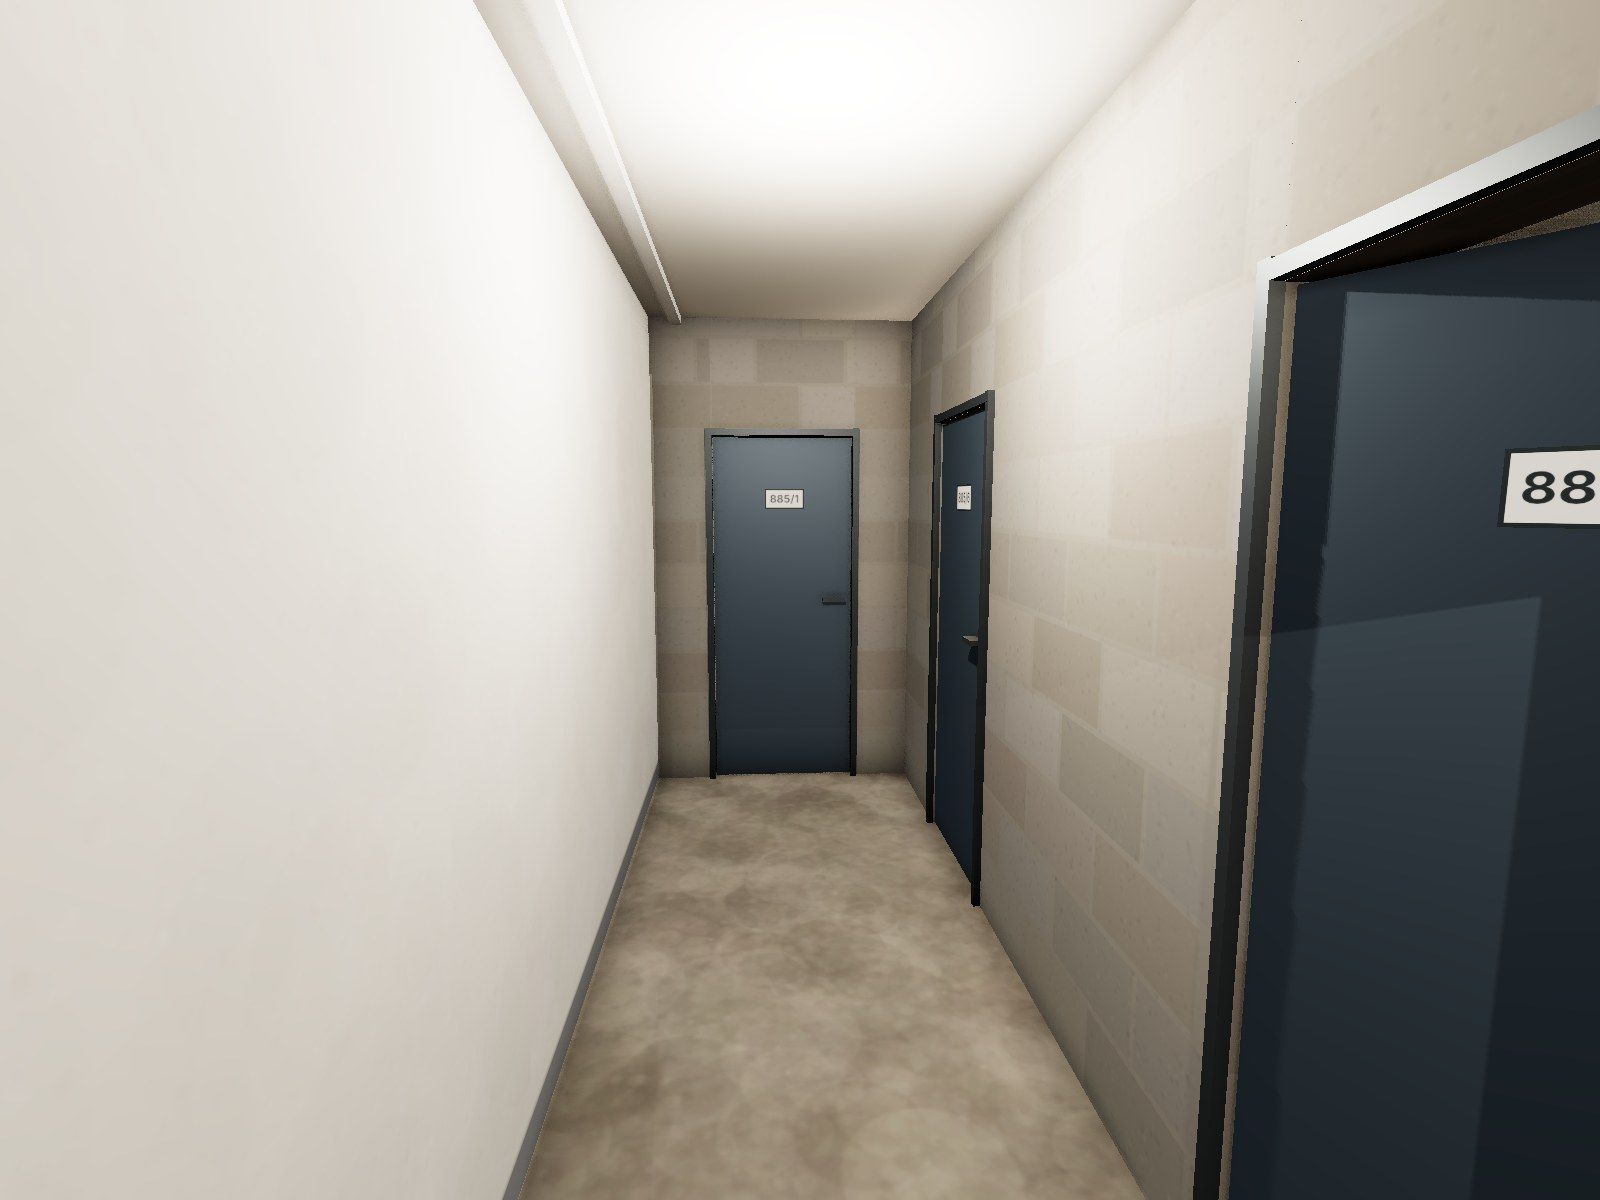
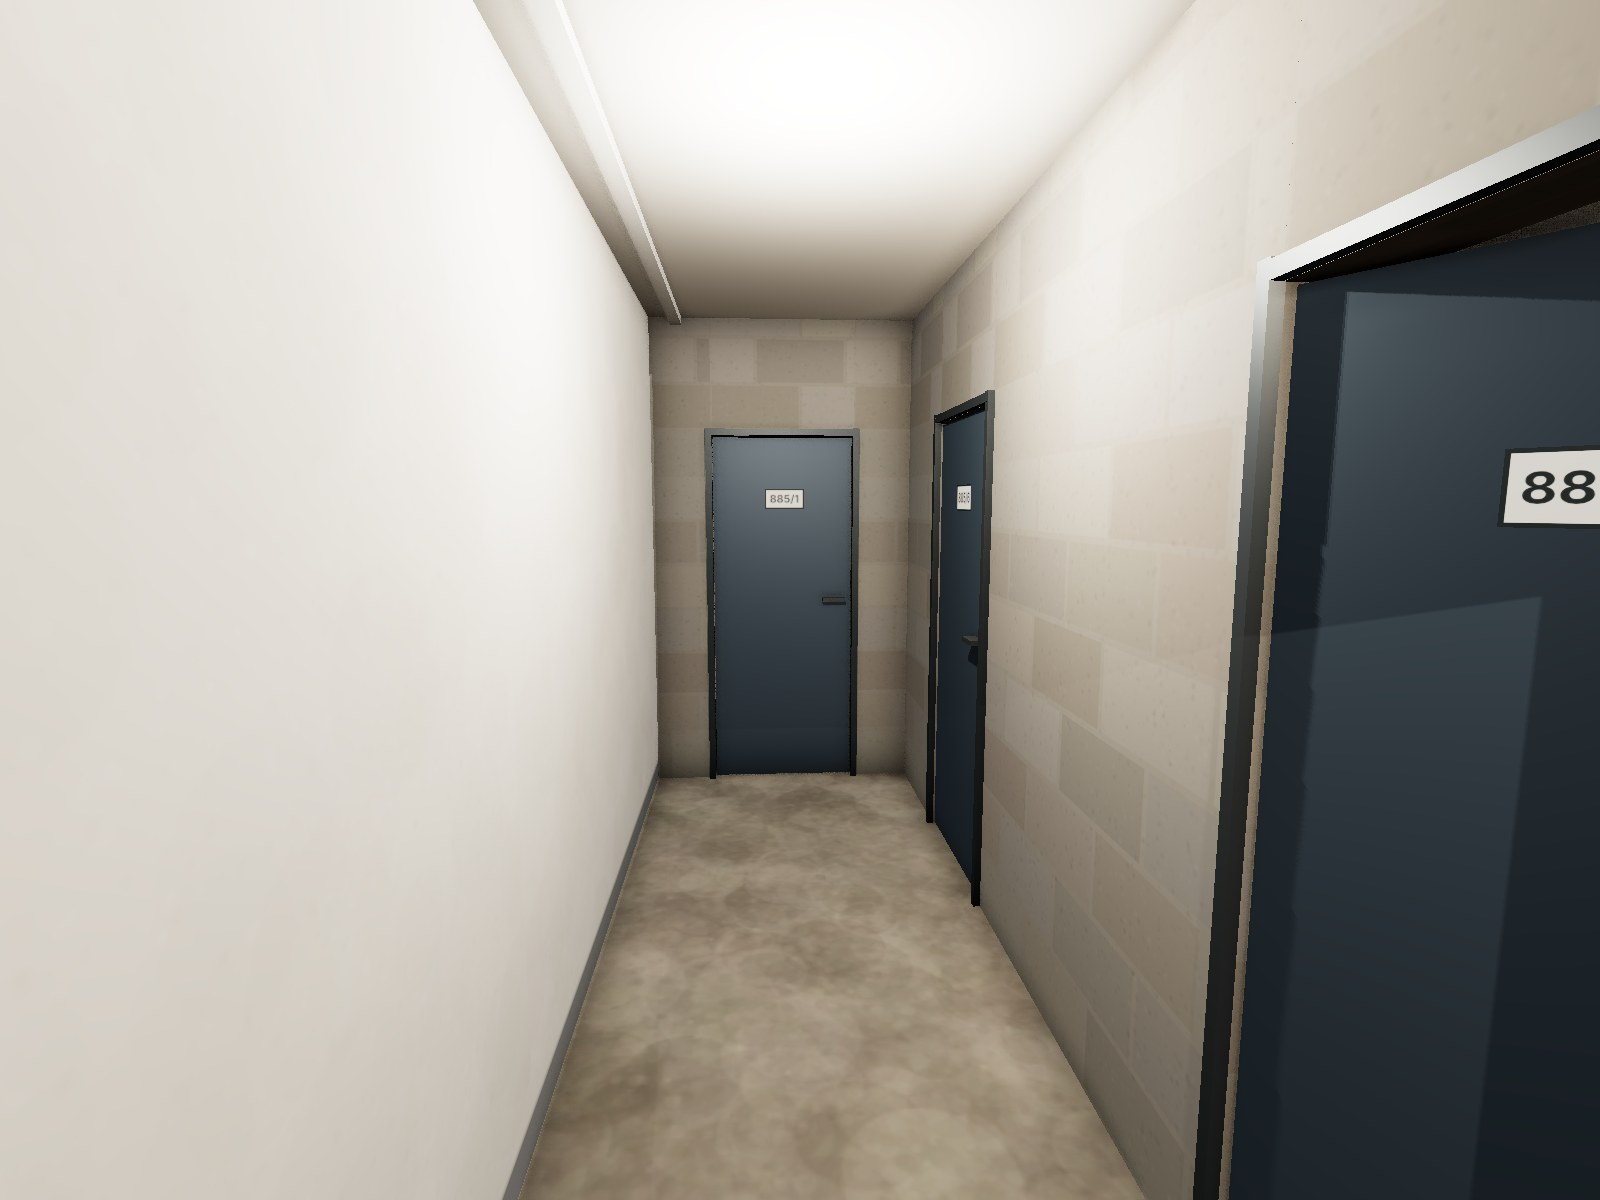
3D A1+A2: electrical per Elektroinstalace 2 (sockets in kóje, lights at plan positions, cable trays, PIR)
Claude-Session: https://claude.ai/code/session_01PwTnPep7yYfhi5YvdxRW3v

diff --git a/vizualizace3d-a1a2.html b/vizualizace3d-a1a2.html
@@ -33,6 +33,7 @@
         <h1>Místnosti A1 a A2 – cílový stav</h1>
         <p><b>A1:</b> 885/1 (1,20 × 3,45 m), 885/6 a 885/8 (2,25 × 1,85 m) – všechny kolem 4,15 m². <b>A2:</b> 885/9 (2,20 × 1,85 m), 885/2 (1,15 × 3,65 m).</p>
         <p>Dřevěná příčka před A2 vybourána, přístup z chodby C1 otevřený v celé šířce 885/9 (2,20 m); do A1 průchodem 1,00 m bez dveří. Příčky z tvárnic 15 cm až ke stropu, dveře 0,80 m.</p>
+        <p>Elektro podle Elektroinstalace 2: v každé kóji zásuvka 230 V (B16, vlastní elektroměr) a svítidlo LED, společné osvětlení přístupů a chodby s čidlem pohybu, kabelové lišty pod stropem z RS v A3.</p>
         <p class="note">Vizualizace podle Návrhu cílového stavu 2 a přesného zaměření: A1 6,00 × 3,449 m, A2 3,50 × 3,80 m, chodba C1 1,55 m, světlá výška 2,60 m, okna 1,13 × 0,50 m s parapetem ve 2,00 m. Myší lze pohled otáčet a přibližovat.</p>
         <div class="buttons">
             <button data-view="entry" class="active">Pohled od vstupu</button>
@@ -289,6 +290,7 @@
         const shelfMat = std({ color: '#9aa5ab', metalness: 0.6, roughness: 0.45 });
         const boxCols = ['#b48a5a', '#a07a4c', '#c49a68', '#5d7f99', '#7a8b5c'];
         // kóje: [x0, z0, x1, z1, strana regálu ('n' = u severní stěny, 'w' = u západní)]
+        const KLIGHT = { '885/1': [0.60, 0.40], '885/6': [3.22, 1.25], '885/8': [5.55, 1.25], '885/9': [8.10, 1.25], '885/2': [9.22, 0.60] };
         const KOJE = { '885/1': [0, 0, 1.20, D1, 'w'], '885/6': [1.35, 0, 3.60, 1.85, 'n'], '885/8': [3.75, 0, A1W, 1.85, 'n'],
             '885/9': [OX, 0, OX + 2.20, 1.85, 'n'], '885/2': [OX + 2.35, 0, OX + A2W, 3.65, 'w'] };
         Object.entries(KOJE).forEach(([name, [x0, z0, x1, z1, side]], i) => {
@@ -308,7 +310,7 @@
                         cx + (side === 'n' ? along : 0), y + bh / 2, cz + (side === 'n' ? 0 : along));
                 }
             });
-            const lx = (x0 + x1) / 2, lz = (z0 + z1) / 2;
+            const [lx, lz] = KLIGHT[name];   // svítidlo podle Elektroinstalace 2
             add(new THREE.CylinderGeometry(0.14, 0.14, 0.05, 28), std({ color: '#ffffff', emissive: '#fff4e0', emissiveIntensity: 2.2 }), lx, H - 0.03, lz, { cast: false, cut: true });
             const pl = new THREE.PointLight('#ffe9cc', name === '885/8' ? 5 : 2.5, 6, 2);
             pl.position.set(lx, H - 0.25, lz); scene.add(pl);
@@ -317,14 +319,21 @@
         // ---------- Elektro v přístupových plochách a v chodbě ----------
         const pvc = std({ color: '#f4f4f2', roughness: 0.6 });
         const ledMat = std({ color: '#ffffff', emissive: '#ffffff', emissiveIntensity: 3 });
-        add(box(OX + 1.3 - 0.15, 0.04, 0.06), pvc, (OX + 1.3 + 0.15) / 2, H - 0.02, 3.30, { cast: false, cut: true });   // kabelová lišta
-        [[4.9, 2.72, 1.2], [OX + 1.0, 2.9, 0.6], [2.0, C1Z + C1D / 2, 1.2], [OX - 0.5, C1Z + C1D / 2, 1.2]].forEach(([x, z, l]) => {
+        // kabelové lišty pod stropem (trasy z RS v A3 podle Elektroinstalace 2)
+        const tray = (xa, za, xb, zb) => add(box(Math.abs(xb - xa) + 0.06, 0.04, Math.abs(zb - za) + 0.06), pvc, (xa + xb) / 2, H - 0.02, (za + zb) / 2, { cast: false, cut: true });
+        tray(0.15, 3.30, 7.6, 3.30); tray(7.6, 3.30, 7.6, 4.05); tray(7.6, 3.42, 9.65, 3.42); tray(2.0, 4.05, XEND, 4.05);
+        // zásuvky 230 V IP44 v kójích (K1–K5) se svislým vývodem z lišty
+        [[0.03, 3.05, 'x'], [3.45, 1.82, 'z'], [5.80, 1.82, 'z'], [8.35, 1.82, 'z'], [OX + A2W - 0.03, 3.30, 'x']].forEach(([x, z, n]) => {
+            add(n === 'x' ? box(0.05, 0.08, 0.08) : box(0.08, 0.08, 0.05), pvc, x, 1.2, z);
+            add(box(0.03, H - 1.25, 0.03), pvc, x, (H + 1.25) / 2, z, { cast: false });
+        });
+        [[4.9, 2.72, 1.2], [6.85, 2.75, 0.6], [2.0, C1Z + C1D / 2, 1.2], [OX - 0.5, C1Z + C1D / 2, 1.2]].forEach(([x, z, l]) => {
             add(box(l, 0.05, 0.12), pvc, x, H - 0.025, z, { cast: false, cut: true });
             add(box(l - 0.05, 0.01, 0.09), ledMat, x, H - 0.052, z, { cast: false, cut: true });
             const ra = new THREE.RectAreaLight('#fff6ea', 9, l - 0.05, 0.1);
             ra.position.set(x, H - 0.06, z); ra.lookAt(x, 0, z); scene.add(ra);
         });
-        const pir = add(new THREE.SphereGeometry(0.05, 18, 10, 0, Math.PI * 2, 0, Math.PI / 2), pvc, OX + 0.9, H - 0.05, C1Z + 0.25, { cut: true });
+        const pir = add(new THREE.SphereGeometry(0.05, 18, 10, 0, Math.PI * 2, 0, Math.PI / 2), pvc, 6.75, H - 0.05, 3.98, { cut: true });
         pir.rotation.x = Math.PI;
 
         // ---------- Osvětlení ----------
